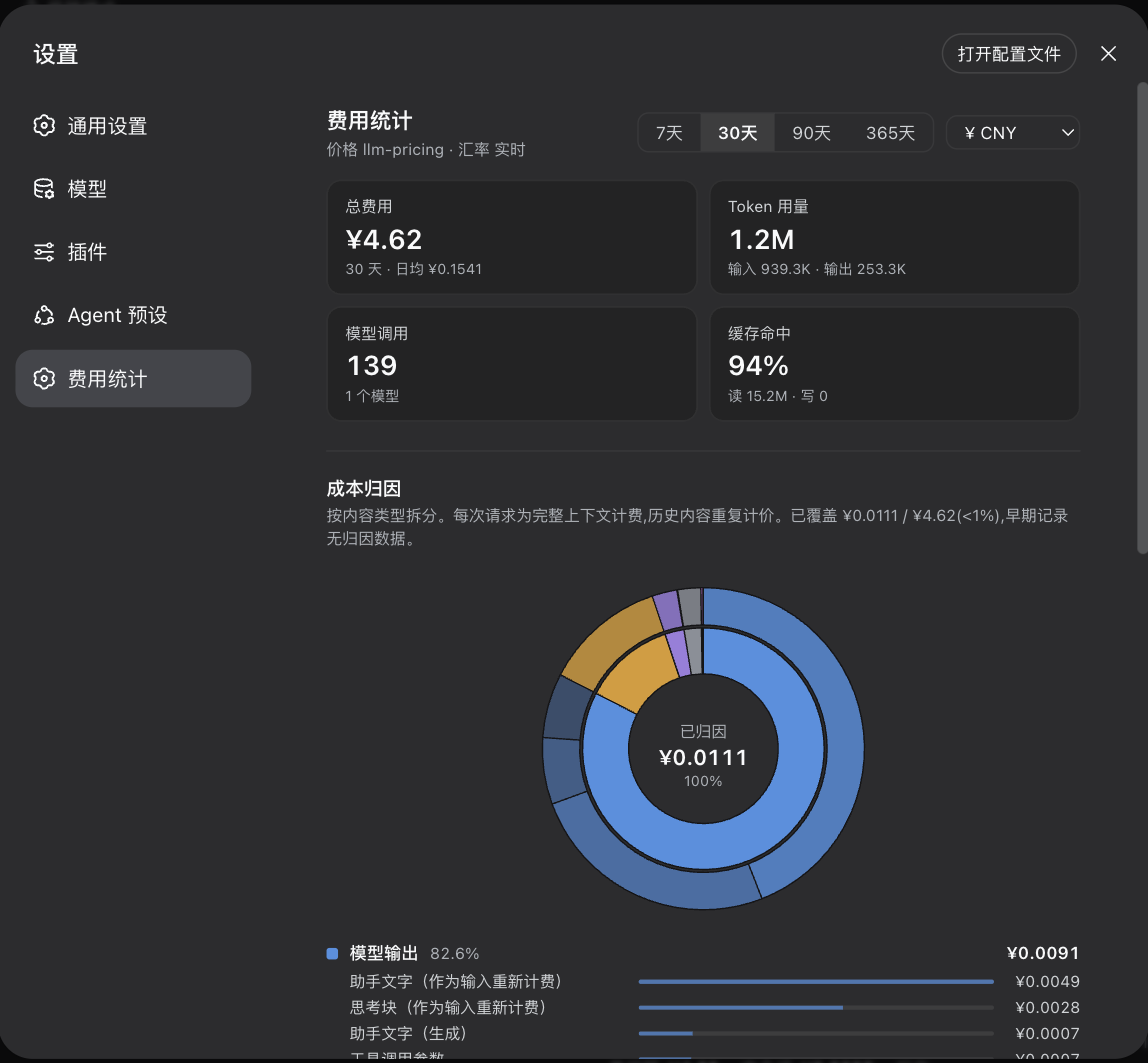
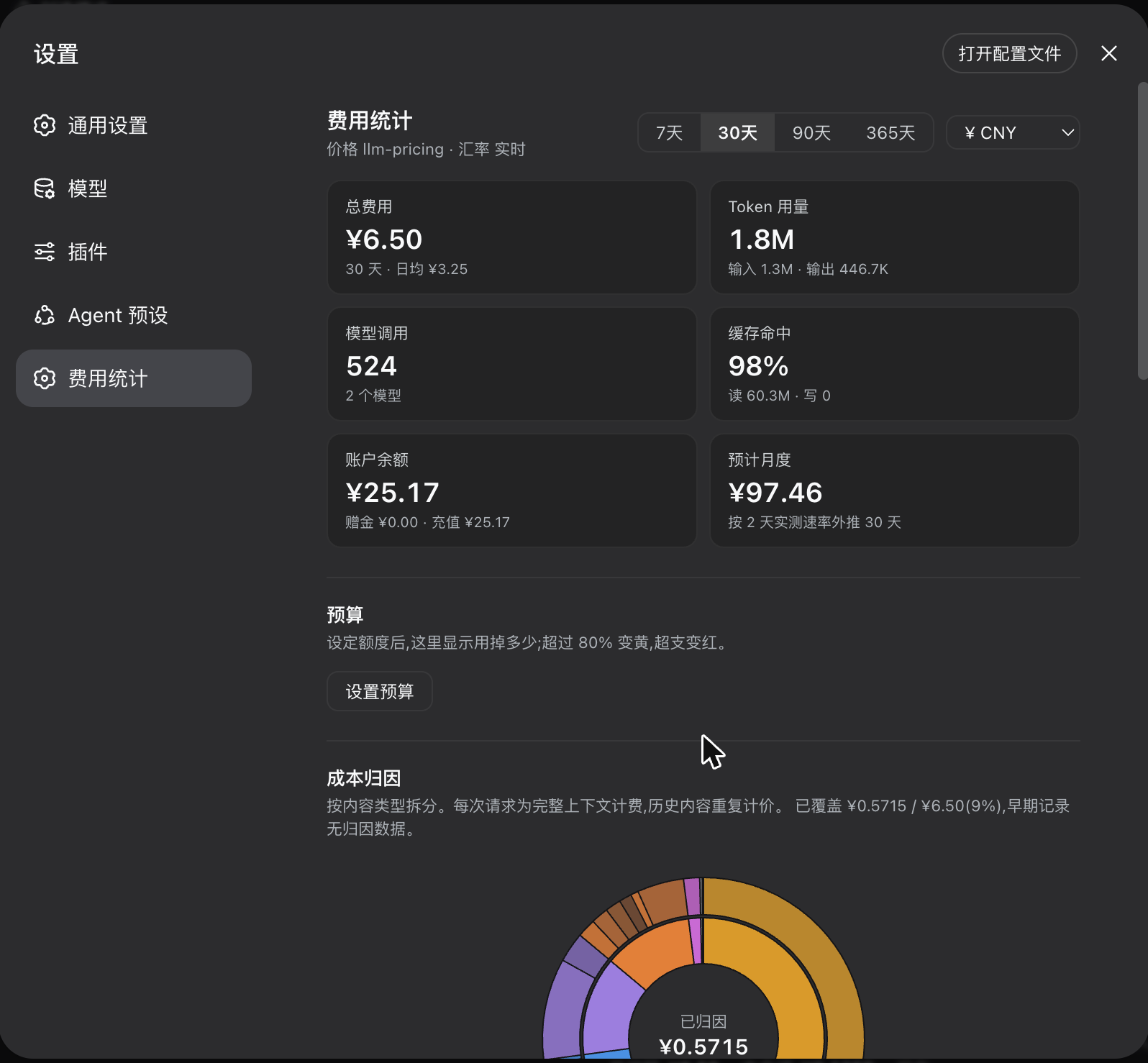
fix(ui): translate detail keys written before the ids existed
Early records stored the Chinese label as the attribution key. Those
rows are never rewritten, so without an alias an upgraded install shows
two vocabularies side by side and the English UI shows Chinese for the
older half of the bill.

Also refreshes the screenshots against real data.

diff --git a/lib/client.js b/lib/client.js
@@ -713,6 +713,27 @@ window.__ModuleLoader__.load({
 
     // Display text lives here, not in the host: the host stores category and
     // detail IDs (they are a storage format), the browser owns presentation.
+    /**
+     * Detail keys written before the ids existed.
+     *
+     * Early records stored the Chinese label itself as the key. Those rows are
+     * immortal — history is never re-priced or rewritten — so without this map
+     * an upgraded install shows two vocabularies side by side forever, and the
+     * English UI shows Chinese for the older half of the bill.
+     */
+    var LEGACY_DETAIL = {
+      '系统提示词': 'prompt.system',
+      '工具 schema': 'prompt.tools',
+      '助手文字（作为输入重新计费）': 'model.reply.carried',
+      '思考块（作为输入重新计费）': 'model.thinking.carried',
+      '工具调用参数': 'model.tool-args',
+      '助手文字（生成）': 'model.reply',
+      '思考': 'model.thinking',
+      '我敲的字': 'user.typed',
+      '框架': 'scaffold.reminder',
+      '媒体': 'media.attachment',
+      '未知工具': 'tool.unknown',
+    }
     function catLabel(t, cat) { return t('cat.' + cat) }
     /**
      * Fixed details resolve through the dictionary; tool names and shell
@@ -720,8 +741,9 @@ window.__ModuleLoader__.load({
      * they are identifiers, not copy.
      */
     function detailLabel(t, sub) {
-      var text = t('detail.' + sub)
-      return text === 'detail.' + sub ? sub : text
+      var id = LEGACY_DETAIL[sub] || sub
+      var text = t('detail.' + id)
+      return text === 'detail.' + id ? sub : text
     }
     function purposeLabel(t, purpose) {
       var text = t('purpose.' + purpose)

diff --git a/README.md b/README.md
@@ -2,18 +2,21 @@
 
 DSH(DeepSeek Harness)的费用统计插件。输入框下一行看花了多少,报告页看花在了什么上。
 
-![成本归因报告](docs/dashboard.png)
+![成本归因](docs/attribution.png)
 
 ## 功能
 
-- **会话费用行** —— 官方统计条下方一行:总消耗、本会话、高峰占比,「报告」直达报告页。
+- **会话费用行** —— 官方统计条下方一行:总消耗、本会话、高峰占比,「报告」直达报告页;侧边栏常驻显示今日花费与预算进度。
 
-  ![会话费用行](docs/composer-line.png)
+  ![会话费用行与侧边栏](docs/composer-line.png)
 
-- **侧边栏** —— 今日花费与预算进度,常驻可见。
 - **成本归因** —— 按内容类型拆分账单:工具输出、模型输出、系统提示词、终端命令(按 `git` / `pnpm` / `rg` 分组)、工具输入、附件、系统提醒、用户输入。旭日图可下钻。
 - **预算** —— 日 / 月 / 累计额度,超 80% 变黄,超支变红。
-- **报告** —— 总费用、Token、缓存命中、高峰占比、月度预测、账户余额;按模型、按会话、按用途(含上下文压缩等循环开销)拆分;每日趋势与周 × 小时热力图;7 / 30 / 90 / 365 天。
+- **报告** —— 总费用、Token、缓存命中、高峰占比、月度预测、账户余额(见下图);
+
+  ![报告页](docs/dashboard.png)
+
+  按模型、按会话、按用途(含上下文压缩等循环开销)拆分;每日趋势与周 × 小时热力图;7 / 30 / 90 / 365 天。
 - **多币种** —— 实时汇率,约 166 种货币;各模型基础单价按其官方定价货币显示。
 - **中英文** —— 跟随 DSH 语言设置。
 - **agent 工具** —— `bill_stats`,模型可直接回答花费相关的问题。
